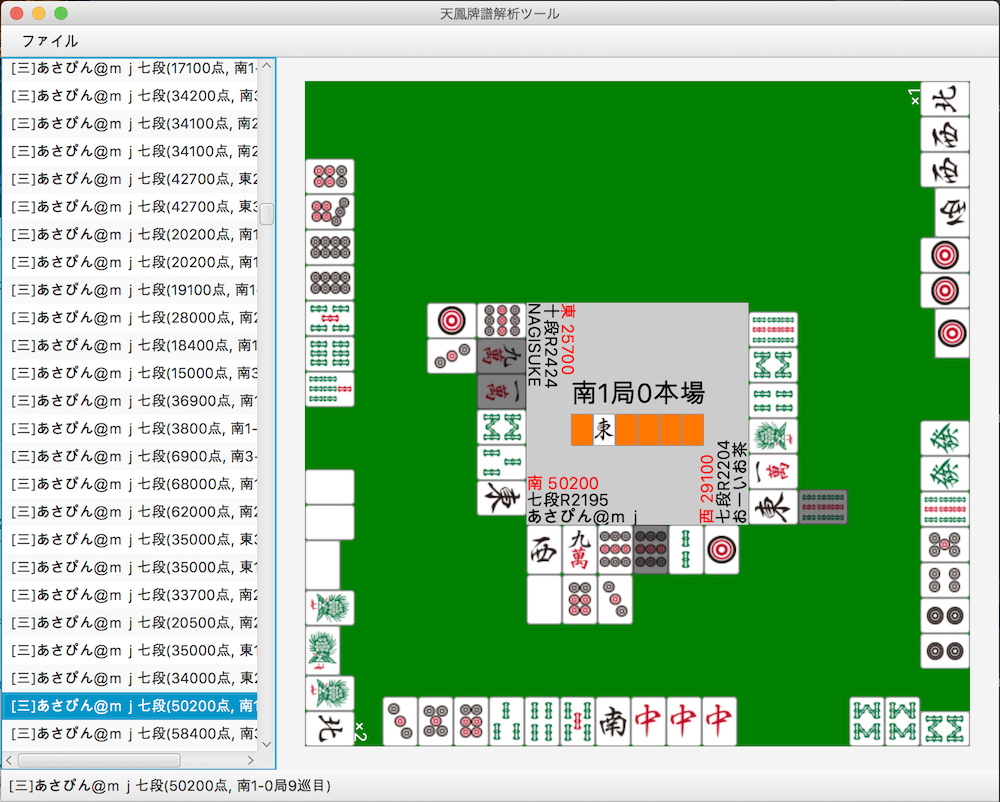
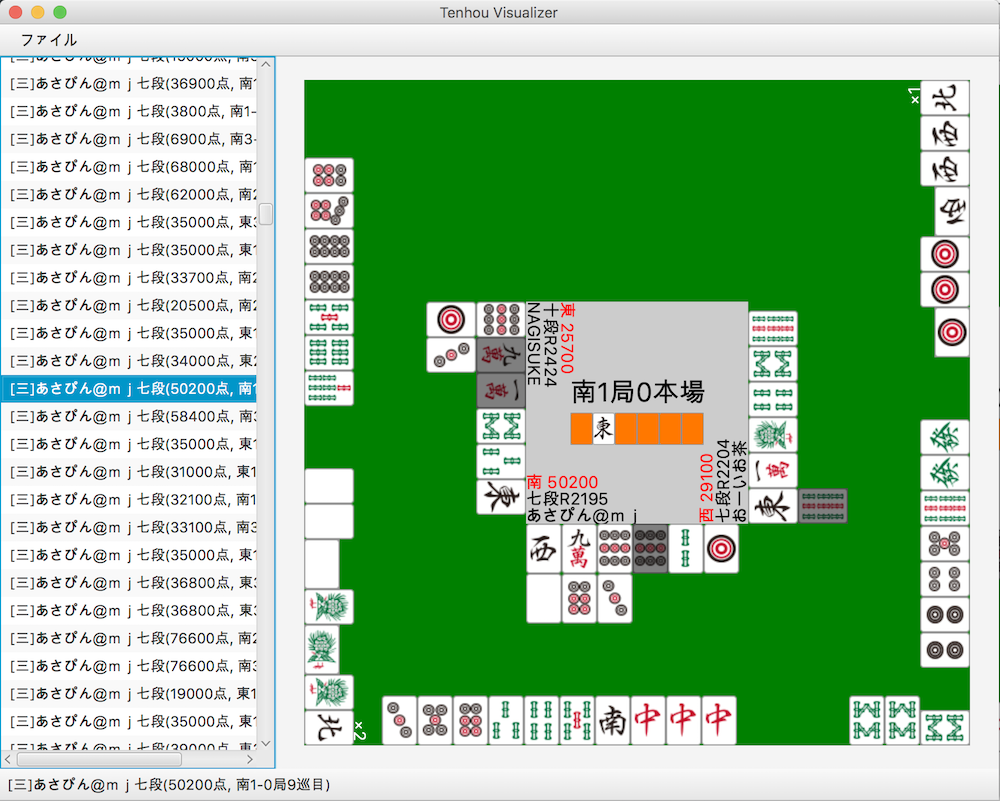
タイトルバー修正

diff --git a/src/main/java/App.java b/src/main/java/App.java
@@ -17,7 +17,7 @@ public class App extends Application {
         Parent root = FXMLLoader.load(getClass().getResource("app.fxml"));
         Scene scene = new Scene(root);
         stage.setScene(scene);
-        stage.setTitle("天鳳牌譜解析ツール");
+        stage.setTitle("Tenhou Visualizer");
         stage.setResizable(false);
         stage.show();
     }
